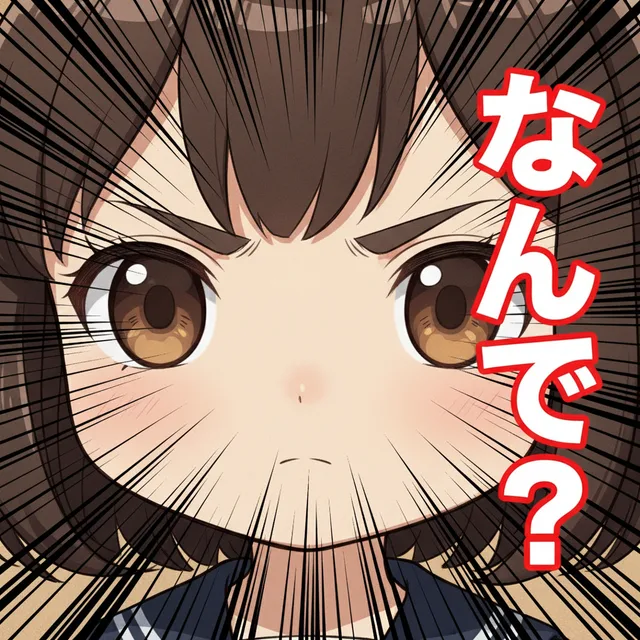
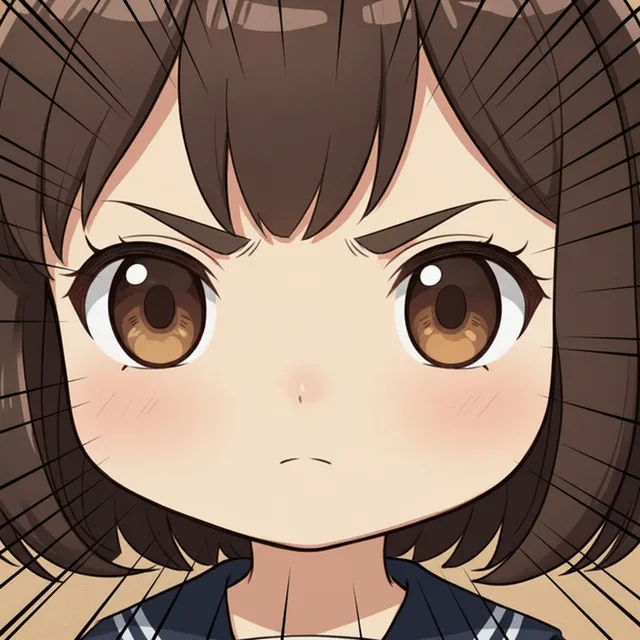
fix: カットイン「なんで？」テキストをclipPath外に独立配置
- 画像から文字を除去（40KB）
- テキストをclipPathの外の別レイヤーに配置し切れを防止

Changed region(s): [[0.0, 0.0, 0.6562, 1.0], [0.5625, 0.0, 1.0, 1.0], [0.2812, 0.6562, 0.3125, 0.6875]]

diff --git a/src/app/(game)/play/[caseId]/interrogation/page.tsx b/src/app/(game)/play/[caseId]/interrogation/page.tsx
@@ -353,22 +353,47 @@ function InterrogationContent({ caseId }: { caseId: string }) {
     <div className="flex h-dvh flex-col bg-gray-950">
       {/* 「なんで？」カットイン演出 */}
       {showObjection && (
-        <div className="pointer-events-none fixed inset-0 z-50 overflow-hidden">
-          {/* 斜め切りパネル：なのの目元アップ（画面下部・横断帯） */}
+        <>
+          {/* 斜め切りパネル（overflow-hiddenで横スライドをクリップ） */}
+          <div className="pointer-events-none fixed inset-0 z-50 overflow-hidden">
+            <div
+              className="absolute left-0 right-0"
+              style={{
+                top: '38%',
+                height: '28%',
+                animation: 'cutinPanel 1.8s ease-out forwards',
+                clipPath: 'polygon(0 8%, 100% 0%, 100% 92%, 0% 100%)',
+                backgroundImage: 'url(/images/cutin_nande.webp)',
+                backgroundSize: 'cover',
+                backgroundPosition: 'center',
+                backgroundRepeat: 'no-repeat',
+                backgroundColor: '#ddd8cc',
+              }}
+            />
+          </div>
+          {/* 「なんで？」テキスト（clipPathの外に独立配置） */}
           <div
-            className="absolute left-0 right-0"
+            className="pointer-events-none fixed z-51 flex items-center justify-end pr-5"
             style={{
               top: '38%',
+              left: 0,
+              right: 0,
               height: '28%',
-              animation: 'cutinPanel 1.8s ease-out forwards',
-              clipPath: 'polygon(0 8%, 100% 0%, 100% 92%, 0% 100%)',
-              backgroundImage: 'url(/images/cutin_nande.webp)',
-              backgroundSize: 'cover',
-              backgroundPosition: 'center',
-              backgroundRepeat: 'no-repeat',
-              backgroundColor: '#ddd8cc',
+              animation: 'cutinText 1.8s ease-out forwards',
             }}
-          />
+          >
+            <p
+              className="select-none font-black leading-none"
+              style={{
+                fontSize: 'clamp(2rem, 10vw, 4rem)',
+                color: '#fff',
+                textShadow: '3px 3px 0 #dc2626, -1px -1px 0 #000, 1px -1px 0 #000, -1px 1px 0 #000',
+                transform: 'rotate(-3deg)',
+              }}
+            >
+              なんで？
+            </p>
+          </div>
           <style>{`
             @keyframes cutinPanel {
               0%   { transform: translateX(105%); opacity: 1; }
@@ -376,8 +401,14 @@ function InterrogationContent({ caseId }: { caseId: string }) {
               68%  { transform: translateX(0); opacity: 1; }
               100% { transform: translateX(-5%); opacity: 0; }
             }
+            @keyframes cutinText {
+              0%   { opacity: 0; transform: scale(1.3) rotate(-3deg); }
+              22%  { opacity: 1; transform: scale(1.0) rotate(-3deg); }
+              68%  { opacity: 1; transform: scale(1.0) rotate(-3deg); }
+              100% { opacity: 0; transform: scale(0.95) rotate(-3deg); }
+            }
           `}</style>
-        </div>
+        </>
       )}
 
       {/* ヘッダー: ターン数・コヒーレンス */}
